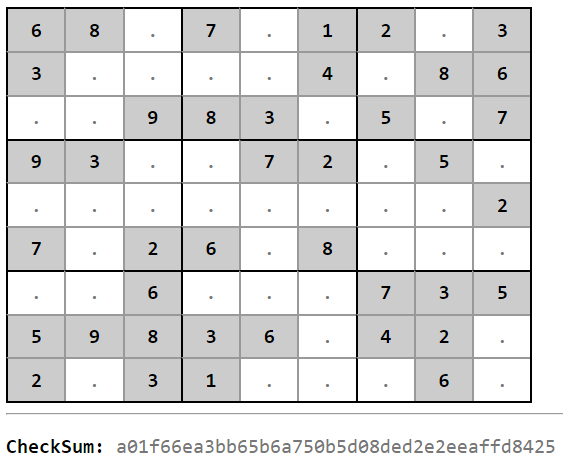
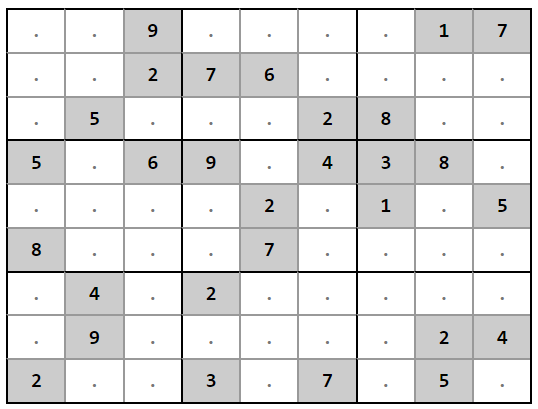
Ajusta algoritmo para definir complejidad de Sudokus.
Actualiza imágenes de ejemplo.

diff --git a/parte-4/miSudoku.php b/parte-4/miSudoku.php
@@ -44,6 +44,9 @@ class miSudoku {
 	// Mensajes de error encontrados al llenar el tablero.
 	private $infoerror = '';
 
+	// Total de celdas fijas
+	private $totalFijas = 0;
+
 	/**
 	 * Retorna el ancho/alto del tablero (4 o 9, usualmente), según la base usada (2 o 3 respectivamente).
 	 * Tener presente que el tablero de Sudoku debe tener el mismo número de celdas de ancho que de alto.
@@ -108,6 +111,7 @@ class miSudoku {
 
 		// Inicializa conteo de ciclos
 		$this->ciclos = 0;
+		$this->totalFijas = 0;
 	}
 
 	/**
@@ -519,6 +523,8 @@ class miSudoku {
 			}
 		}
 
+		$this->totalFijas = 0;
+
 		// Puede usar "-", "+" y "|" para facilitar interpretacion. "." para no fijos.
 		$lineas = explode("\n", str_replace(array('-', '|', '+'), '', $texto));
 		$x = 0;
@@ -533,6 +539,7 @@ class miSudoku {
 							$this->tablero[$x][$y]['valor'] = $valor;
 							$this->tablero[$x][$y]['fija'] = true;
 							$this->tablero[$x][$y]['disponibles'] = str_replace($valor, '', $this->tablero[$x][$y]['disponibles']);
+							$this->totalFijas ++;
 						}
 					}
 					else {
@@ -697,14 +704,80 @@ class miSudoku {
 	}
 
 	/**
+	 * Valida las celdas fijas para determinar que corresponden a un Sudoku fácil.
+	 * Debe cumplir las siguientes condiciones:
+	 * - Tienen al menos tres celdas fijas por fila, columna, caja
+	 * - Tiene al menos una celda para cada número.
+	 *
+	 * @param string $fijas Cadena de texto con la asignación de celdas fijas.
+	 * @return bool TRUE si las celdas fijas indicadas proveen una solución "fácil", FALSE en otro caso.
+	 */
+	public function validarFacil(string $fijas) {
+
+		$this->setFijas($fijas);
+		$ancho_tablero = $this->anchoTablero();
+
+		$controles = array(
+			// números: Al final deben quedar $ancho_tablero elementos unicos
+			'numeros' => array(),
+			// cajas: Al final deben quedar $ancho_tablero elementos con valor >= $this->base
+			'cajas' => array(),
+			// filas y columnas: Al final deben quedar $ancho_tablero elementos con valor >= $this->base
+			'columnas' => array_fill(0, $ancho_tablero, 0),
+			'filas' => array_fill(0, $ancho_tablero, 0)
+		);
+
+		// Inicializa control cajas
+		foreach ($this->cajas as $idbloque => $datacaja) {
+			$controles['cajas'][$idbloque] = 0;
+		}
+
+		for ($x = 0; $x < $ancho_tablero; $x ++) {
+			for ($y = 0; $y < $ancho_tablero; $y ++) {
+				if ($this->tablero[$x][$y]['fija']) {
+					$controles['numeros'][$this->tablero[$x][$y]['valor']] = true;
+					$controles['cajas'][$this->tablero[$x][$y]['caja']] ++;
+					$controles['columnas'][$x] ++;
+					$controles['filas'][$y] ++;
+				}
+			}
+		}
+
+		$retornar = (count($controles['numeros']) == $ancho_tablero);
+
+		// Revisa controles
+		if ($retornar) {
+			for ($i = 0; $i < $ancho_tablero; $i++) {
+				if ($controles['filas'][$i] < $this->base || $controles['columnas'] < $this->base) {
+					$retornar = false;
+					break;
+				}
+			}
+		}
+		if ($retornar) {
+			foreach ($this->cajas as $idbloque => $datacaja) {
+				if ($controles['cajas'][$idbloque] < $this->base) {
+					$retornar = false;
+					break;
+				}
+			}
+		}
+
+		return $retornar;
+	}
+
+	/**
 	 * Crea un tablero de SUdoku nuevo.
 	 * Según cita Wikipedia, se requiere que hayan al menos 17 celdas en el tablero
 	 * (para un sudoku de 9x9), es decir, el 21% (para 4x4 sería 4). Esto sería un sudoku MUY dificil.
-	 * Cómo generar el tablero? Se eliminan celdas hasta llegar a 17 o encontrar una combinación sin
-	 * solución. Para cada caso, se valida que la solución que se obtenga coincida con la original.
-	 *
-	 * Lista todas las posibles opciones de Sudoku hasta llegar a un punto donde no sea posible eliminar una
-	 * celda sin que se tenga más de una posible solución. Este será el tablero con nivel "dificil".
+	 * Cómo generar el tablero?
+	 * - Remover una celda por vez y validar que cumple con los requerimientos de “solución única” y de
+	 *   un tablero de nivel fácil arriba descritas. El último Sudoku posible que cumpla con estas condiciones
+	 *   será precisamente el de nivel “fácil”.
+	 * - Continuar removiendo celdas validando simplemente que tenga una “única solución”, hasta encontrar el
+	 *   último Sudoku posible. Este será el de nivel “difícil”.
+	 * - El Sudoku de nivel “medio” será el que quede en la posición media (redundancia intencional) entre el
+	 *   difícil y el fácil.
 	 *
 	 * @return array Datos para nuevo Sudoku.
 	 */
@@ -740,13 +813,43 @@ class miSudoku {
 		// Conteo total de ciclos ejecutados
 		$total_ciclos = 0;
 
-		while (count($numeros) > 0 && $total_fijas > $minimo) {
+		// Cuenta posición mínima a usar para Sudokus faciles (30 para 9x9, es decir, 37%)
+		$facil_min = ceil($total_fijas * 0.37);
+		$facil = 0;
+
+		// Control de busqueda de faciles
+		$resto = array();
+		$buscarfacil = true;
+
+		while (($buscarfacil || count($numeros) > 0) && $total_fijas > $minimo) {
+
+			if ($buscarfacil && count($numeros) <= 0) {
+				// Recupera resto
+				$buscarfacil = false;
+				$numeros = $resto;
+				// echo "RESTABLECE RESTO: "; print_r($numeros); echo "<hr>";
+			}
+
 			// Retira primer elemento de la lista. Si no corresponde a un valor numérico, repite.
 			$r = array_shift($numeros);
 			if (!is_numeric($nueva_data[$r])) { continue; } // Espacios en blanco, separadores de linea
 
 			$pre = $nueva_data[$r];
 			$nueva_data[$r] = '.';
+
+			if ($buscarfacil && !$this->validarFacil($nueva_data)) {
+				// Preserva
+				$resto[] = $r;
+				// Restablece valor en data
+				$nueva_data[$r] = $pre;
+				// Depuración
+				if ($debug) {
+					$c = count($soluciones);
+					echo "EVALUADO TABLEROS FACILES, IGNORA $r ($c/$repeticiones).";
+					echo "Fijas: {$total_fijas} Acumulado: " . count($resto) . "<hr>";
+				}
+				continue;
+			}
 
 			// Realizó cambio, valida solución
 			if (!$this->validarSolucionPrevia($nueva_data, $data_solucion)) {
@@ -773,21 +876,23 @@ class miSudoku {
 				$soluciones[] = array(
 					'data' => $nueva_data,
 					'ciclos' => $this->ciclos,
-					'repeticiones' => $repeticiones
+					'repeticiones' => $repeticiones,
+					'fijas' => $this->totalFijas
 					);
+				// Actualiza control de faciles
+				if ($buscarfacil) { $facil = count($soluciones) - 1; }
 				// Restablece no-soluciones
 				$repeticiones = 0;
 				// Actualiza cuántos quedan
-				$total_fijas --;
+				$total_fijas = $this->totalFijas;
 			}
 			// Estadistica
 			$total_ciclos += $this->ciclos;
 		}
 
 		$dificil = count($soluciones) - 1;
-		// El facil es el de la mitad + 0..2 para que no siempre salgan de la misma cantidad de celdas
-		$facil = ceil($dificil * 0.7) + rand(0, 1);
-		$medio = ceil($dificil * 0.85) + rand(0, 1);
+		// Rango medio se mide entre $facil_min y $dificil
+		$medio = $facil + ceil(($dificil - $facil)/2);
 		// Validación extra
 		if ($medio <= $facil || $medio >= $dificil) { $medio = 0; }
 		if ($facil >= $dificil) { $facil = $dificil; $dificil = 0; }
@@ -798,6 +903,7 @@ class miSudoku {
 			'facil' => $soluciones[$facil]['data'],
 			'solucion' => $data_solucion['valores'],
 			'total-opciones' => $dificil,
+			'indexes' => array($facil, $medio, $dificil),
 			'ciclos' => $total_ciclos,
 			'fijas' => $total_fijas,
 			'checksum-solucion' => $data_solucion['checksum']
@@ -807,7 +913,7 @@ class miSudoku {
 		$this->debug = $debug;
 
 		if ($this->debug) {
-			echo "OPCIONES SUDOKU NUEVO ($total_ciclos ciclos):<pre>";
+			echo "OPCIONES SUDOKU NUEVO ($total_ciclos ciclos / $total_fijas < $minimo):<pre>";
 			print_r($soluciones);
 			echo "\nFINAL:\n";
 			print_r($retornar);
